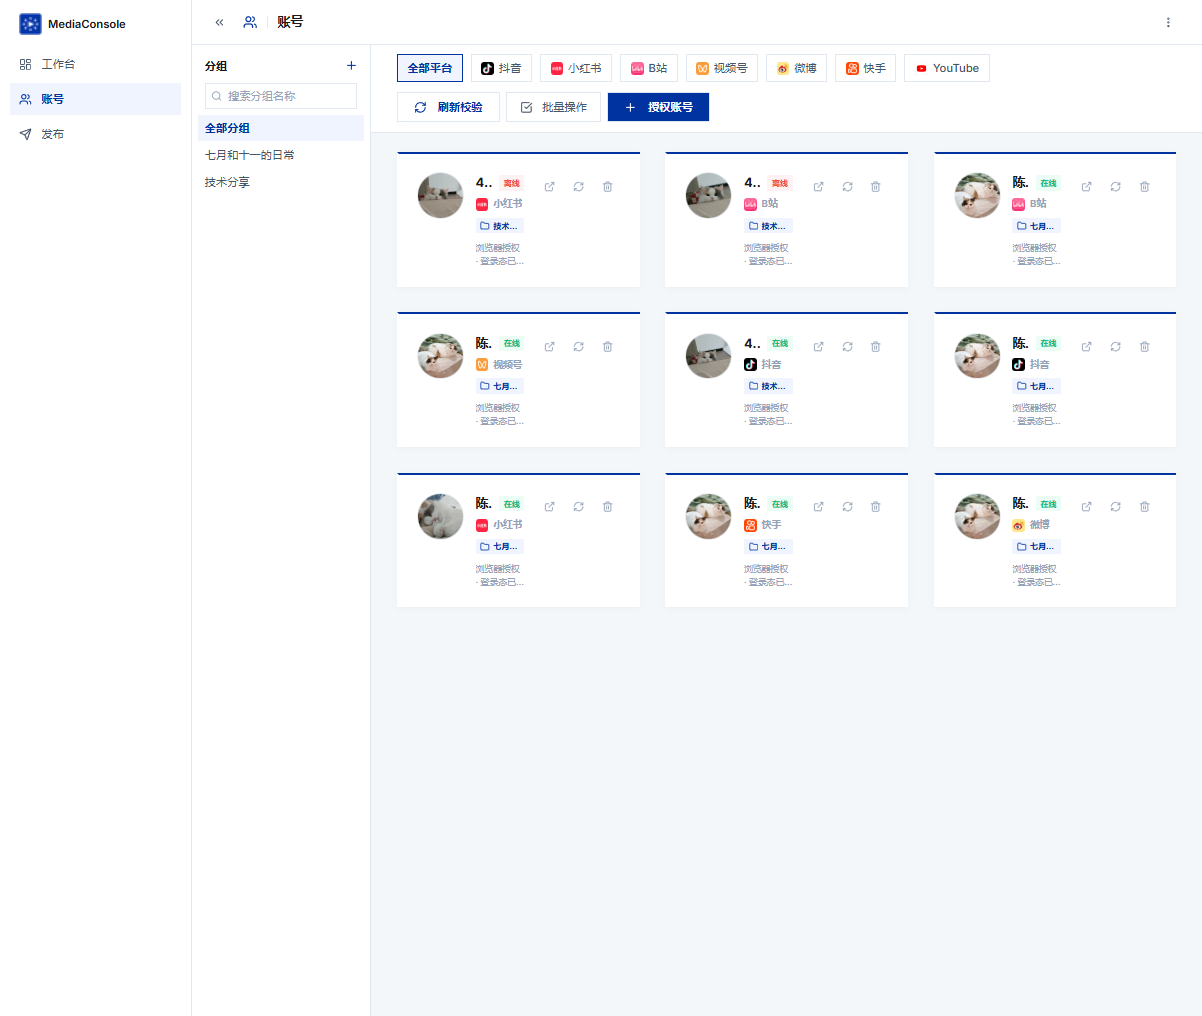
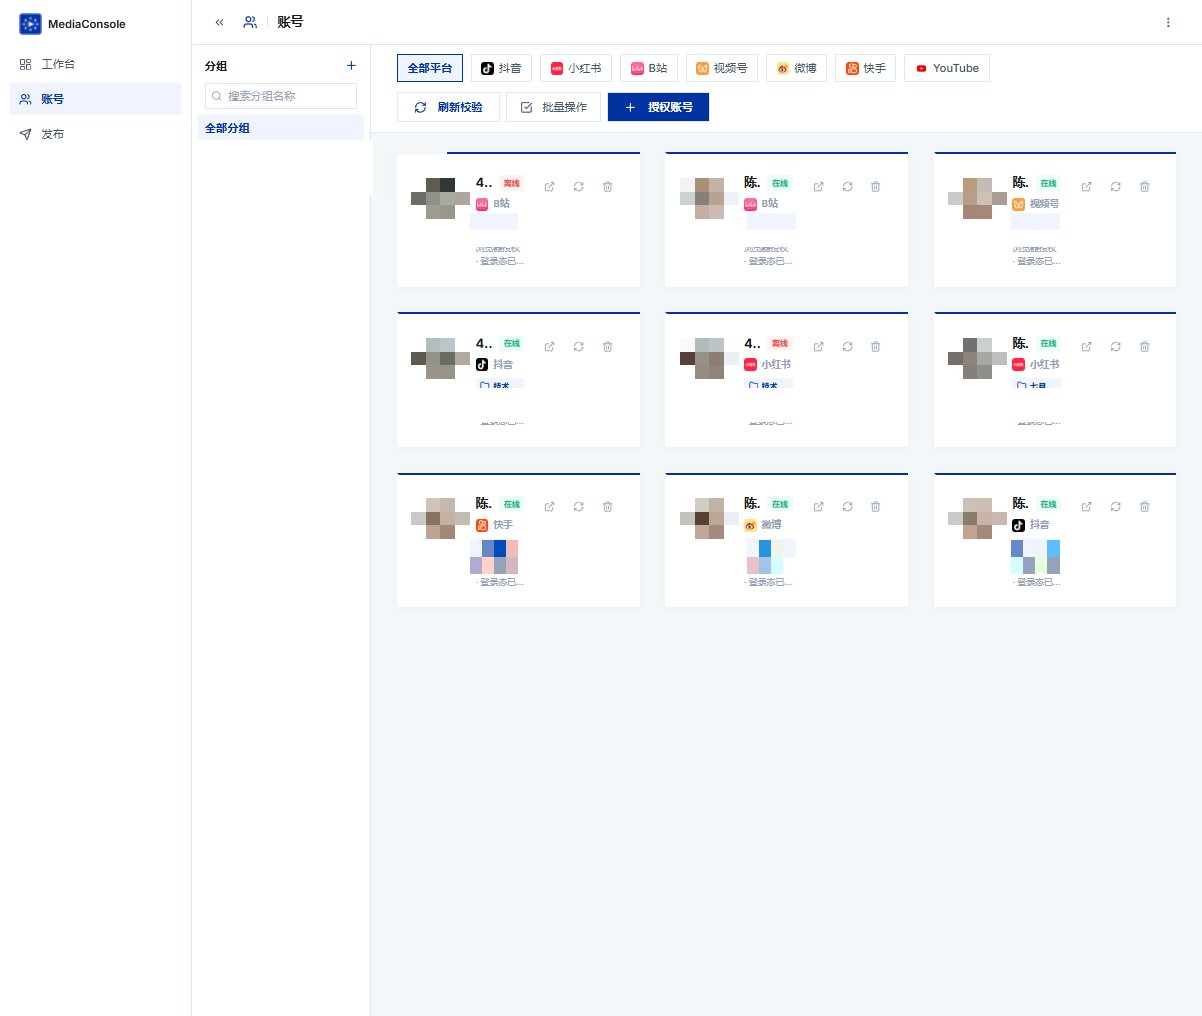
chore: 开源前收尾 — 移除发布设置定时模块、精简发布页标题栏，功能截图完成账号/作品隐私打码，删除启动说明

diff --git a/client/src/pages/social-publish/publish-editor.tsx b/client/src/pages/social-publish/publish-editor.tsx
@@ -5,7 +5,6 @@ import { toast } from 'sonner';
 import {
   ArrowLeft,
   Bookmark,
-  CalendarClock,
   ImagePlus,
   Plus,
   Save,
@@ -33,7 +32,6 @@ import {
   getPublishTask,
   listAccountGroups,
   listAccounts,
-  submitPublishTask,
   updatePublishTask,
   uploadPublishFile,
 } from '@client/src/api/social';
@@ -41,25 +39,12 @@ import { PLATFORM_LOGOS } from '@/utils/platform-logos';
 import VideoThumbnail from '@/components/VideoThumbnail';
 import { Button } from '@/components/ui/button';
 import { Skeleton } from '@/components/ui/skeleton';
-import { Calendar } from '@/components/ui/calendar';
 import {
   Dialog,
   DialogContent,
   DialogHeader,
   DialogTitle,
 } from '@/components/ui/dialog';
-import {
-  Popover,
-  PopoverContent,
-  PopoverTrigger,
-} from '@/components/ui/popover';
-import {
-  Select,
-  SelectContent,
-  SelectItem,
-  SelectTrigger,
-  SelectValue,
-} from '@/components/ui/select';
 import { cn } from '@/lib/utils';
 import { resolveErrorMessage } from '../social-analytics/helpers';
 import PublishTypeDialog from './publish-type-dialog';
@@ -188,8 +173,6 @@ export default function PublishEditor() {
   const [platformFields, setPlatformFields] = useState<Record<string, Record<string, unknown>>>({});
   const [targets, setTargets] = useState<{ platform: string; accountId: string }[]>([]);
   const [accounts, setAccounts] = useState<SocialAccount[]>([]);
-  const [scheduleAt, setScheduleAt] = useState<string>('');
-  const [scheduleEnabled, setScheduleEnabled] = useState(false);
   const [uploading, setUploading] = useState(false);
   const [uploadProgress, setUploadProgress] = useState<number | null>(null);
   /** 自动填表弹窗（填表任务保存后打开） */
@@ -233,10 +216,6 @@ export default function PublishEditor() {
       );
       setPlatformFields(task.platformFields ?? {});
       setTargets(task.targets.map((t) => ({ platform: t.platform, accountId: t.accountId })));
-      if (task.status === 'scheduled' && task.scheduledAt) {
-        setScheduleEnabled(true);
-        setScheduleAt(task.scheduledAt.slice(0, 16));
-      }
     } catch (e) {
       toast.error(`加载失败：${resolveErrorMessage(e)}`);
     } finally {
@@ -495,33 +474,6 @@ export default function PublishEditor() {
       toast.success('已保存，正在打开浏览器自动填表…');
     } catch (e) {
       toast.error(`保存失败：${resolveErrorMessage(e)}`);
-    } finally {
-      setSaving(false);
-    }
-  };
-
-  const handleSchedule = async () => {
-    if (!scheduleAt) {
-      toast.error('请先选择定时发布时间');
-      return;
-    }
-    const v = validatePublish();
-    if (v) {
-      toast.error(v);
-      return;
-    }
-    setSaving(true);
-    try {
-      const input = buildInput();
-      const task = id
-        ? await updatePublishTask(id, input)
-        : await createPublishTask(input);
-      const iso = new Date(scheduleAt).toISOString();
-      await submitPublishTask(task.id, { scheduledAt: iso });
-      toast.success('已设置定时发布');
-      navigate('/publish');
-    } catch (e) {
-      toast.error(`发布失败：${resolveErrorMessage(e)}`);
     } finally {
       setSaving(false);
     }
@@ -1108,44 +1060,6 @@ export default function PublishEditor() {
         )}
       </section>
 
-      {/* 04 发布设置 */}
-      <section className="rounded-none border-t-[3px] border-t-[#0033A0] bg-white shadow-md p-6">
-        <div className="mb-6">
-          <p className="mb-1 text-[12px] font-black uppercase tracking-[0.15em] text-[#0033A0]">
-            04. 发布设置
-          </p>
-          <p className="text-[10px] font-medium text-[#94A3B8]">
-            SCHEDULE · 定时为本地到点触发（需后端服务运行）
-          </p>
-        </div>
-        <label className="flex cursor-pointer items-center gap-2.5">
-          <input
-            type="checkbox"
-            checked={scheduleEnabled}
-            onChange={(e) => setScheduleEnabled(e.target.checked)}
-            className="size-4 accent-[#0033A0]"
-          />
-          <span className="text-sm font-bold text-[#1A1A1A]">定时发布</span>
-          <span className="text-[10px] font-medium text-[#94A3B8]">
-            勾选后设置时间，到点自动发布
-          </span>
-        </label>
-        {scheduleEnabled && (
-          <div className="mt-3 max-w-[360px]">
-            <p className="mb-2 text-[10px] font-black uppercase tracking-tight text-[#94A3B8]">
-              定时发布时间
-            </p>
-            <ScheduleDateTimePicker
-              value={scheduleAt}
-              onChange={setScheduleAt}
-            />
-          </div>
-        )}
-        <p className="mt-4 text-[10px] font-medium text-[#94A3B8]">
-          发布完成后临时文件自动清除，不占用系统存储；失败的平台账号保留文件可重试。
-        </p>
-      </section>
-
       {/* 常用话题弹窗：分组管理 + 单选/整组全选应用 */}
       <TopicLibraryDialog
         open={topicLibOpen}
@@ -1202,24 +1116,12 @@ export default function PublishEditor() {
         </Button>
         <Button
           type="button"
-          className={cn(
-            'rounded-none text-white',
-            scheduleEnabled ? 'bg-[#F59E0B] hover:bg-[#D97706]' : 'bg-[#0033A0] hover:bg-[#00236E]',
-          )}
+          className="rounded-none bg-[#0033A0] text-white hover:bg-[#00236E]"
           disabled={saving || uploading}
-          onClick={() => void (scheduleEnabled ? handleSchedule() : handleFillForms())}
+          onClick={() => void handleFillForms()}
         >
-          {scheduleEnabled ? (
-            <>
-              <CalendarClock className="size-4" />
-              定时发布
-            </>
-          ) : (
-            <>
-              <Wand2 className="size-4" />
-              填表（打开浏览器）
-            </>
-          )}
+          <Wand2 className="size-4" />
+          填表（打开浏览器）
         </Button>
       </div>
 
@@ -1353,124 +1255,6 @@ function MediaPreview({
         </div>
       </div>
     </div>
-  );
-}
-
-/** 定时发布时间选择：日历（react-day-picker，跟随项目主色/零圆角）+ 时/分下拉 + 清除/今天 */
-function ScheduleDateTimePicker({
-  value,
-  onChange,
-}: {
-  value: string;
-  onChange: (v: string) => void;
-}) {
-  const pad = (n: number): string => String(n).padStart(2, '0');
-  const current = value ? new Date(value) : null;
-
-  const toValue = (d: Date): string =>
-    `${d.getFullYear()}-${pad(d.getMonth() + 1)}-${pad(d.getDate())}T${pad(d.getHours())}:${pad(d.getMinutes())}`;
-
-  const update = (partial: { date?: Date; hour?: number; minute?: number }): void => {
-    const base = current ?? new Date();
-    const d = new Date(
-      (partial.date ?? base).getFullYear(),
-      (partial.date ?? base).getMonth(),
-      (partial.date ?? base).getDate(),
-      partial.hour ?? base.getHours(),
-      partial.minute ?? base.getMinutes(),
-      0,
-      0,
-    );
-    onChange(toValue(d));
-  };
-
-  const display = current
-    ? `${current.getFullYear()}/${pad(current.getMonth() + 1)}/${pad(current.getDate())} ${pad(current.getHours())}:${pad(current.getMinutes())}`
-    : '选择时间';
-
-  return (
-    <Popover>
-      <PopoverTrigger asChild>
-        <button
-          type="button"
-          className="flex w-full items-center justify-between rounded-none border border-[#E2E8F0] bg-white px-3 py-2 text-left text-sm outline-none transition-colors hover:border-[#0033A0] focus:border-[#0033A0]"
-        >
-          <span className={current ? 'text-[#1A1A1A]' : 'text-[#94A3B8]'}>
-            {display}
-          </span>
-          <CalendarClock className="size-4 shrink-0 text-[#94A3B8]" />
-        </button>
-      </PopoverTrigger>
-      <PopoverContent
-        align="start"
-        sideOffset={4}
-        className="w-[300px] rounded-none border-[#E2E8F0] p-0 shadow-md"
-      >
-        <Calendar
-          mode="single"
-          required={false}
-          selected={current ?? undefined}
-          defaultMonth={current ?? undefined}
-          onSelect={(d) => d && update({ date: d })}
-          className="p-3"
-        />
-        <div className="space-y-3 border-t border-[#E2E8F0] p-3">
-          <div className="flex items-center gap-2">
-            <Select
-              value={current ? String(current.getHours()) : '12'}
-              onValueChange={(v) => update({ hour: Number(v) })}
-            >
-              <SelectTrigger className="h-8 w-full rounded-none border-[#E2E8F0] text-sm">
-                <SelectValue placeholder="时" />
-              </SelectTrigger>
-              <SelectContent className="max-h-[180px] rounded-none">
-                {Array.from({ length: 24 }, (_, i) => (
-                  <SelectItem key={i} value={String(i)} className="text-sm">
-                    {pad(i)}
-                  </SelectItem>
-                ))}
-              </SelectContent>
-            </Select>
-            <span className="text-sm font-bold text-[#94A3B8]">:</span>
-            <Select
-              value={current ? String(current.getMinutes()) : '00'}
-              onValueChange={(v) => update({ minute: Number(v) })}
-            >
-              <SelectTrigger className="h-8 w-full rounded-none border-[#E2E8F0] text-sm">
-                <SelectValue placeholder="分" />
-              </SelectTrigger>
-              <SelectContent className="max-h-[180px] rounded-none">
-                {Array.from({ length: 60 }, (_, i) => (
-                  <SelectItem key={i} value={String(i)} className="text-sm">
-                    {pad(i)}
-                  </SelectItem>
-                ))}
-              </SelectContent>
-            </Select>
-          </div>
-          <div className="flex items-center justify-between">
-            <Button
-              type="button"
-              variant="outline"
-              onClick={() => onChange('')}
-              className="h-8 rounded-none border-[#E2E8F0] text-[#475569] hover:bg-slate-50"
-            >
-              清除
-            </Button>
-            <Button
-              type="button"
-              onClick={() => {
-                const now = new Date();
-                update({ date: now, hour: now.getHours(), minute: now.getMinutes() });
-              }}
-              className="h-8 rounded-none bg-[#0033A0] hover:bg-[#002680]"
-            >
-              今天
-            </Button>
-          </div>
-        </div>
-      </PopoverContent>
-    </Popover>
   );
 }
 

diff --git a/client/src/pages/social-publish/index.tsx b/client/src/pages/social-publish/index.tsx
@@ -115,7 +115,7 @@ export default function SocialPublish() {
             01. 发布单列表
           </p>
           <p className="text-[10px] font-medium text-[#94A3B8]">
-            PUBLISH TASKS · 草稿 / 定时 / 批量多平台发布
+            PUBLISH TASKS
           </p>
         </div>
         <Button
